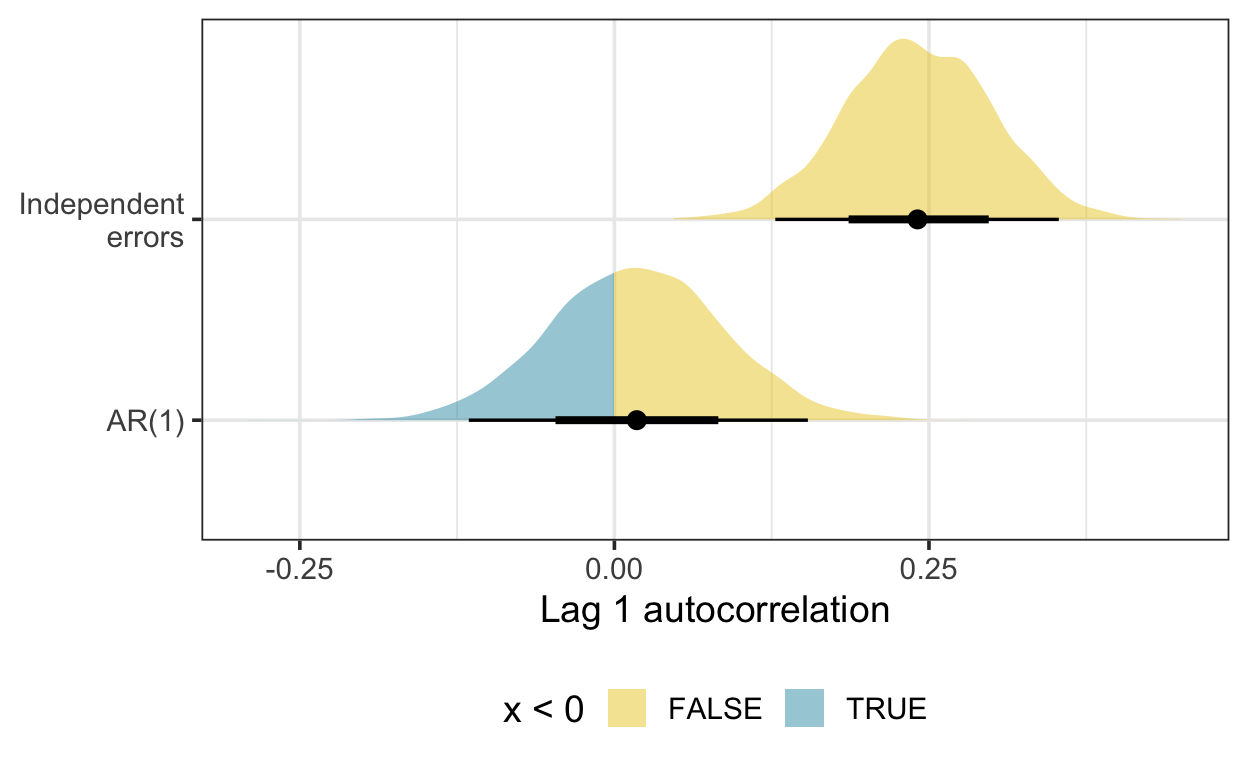
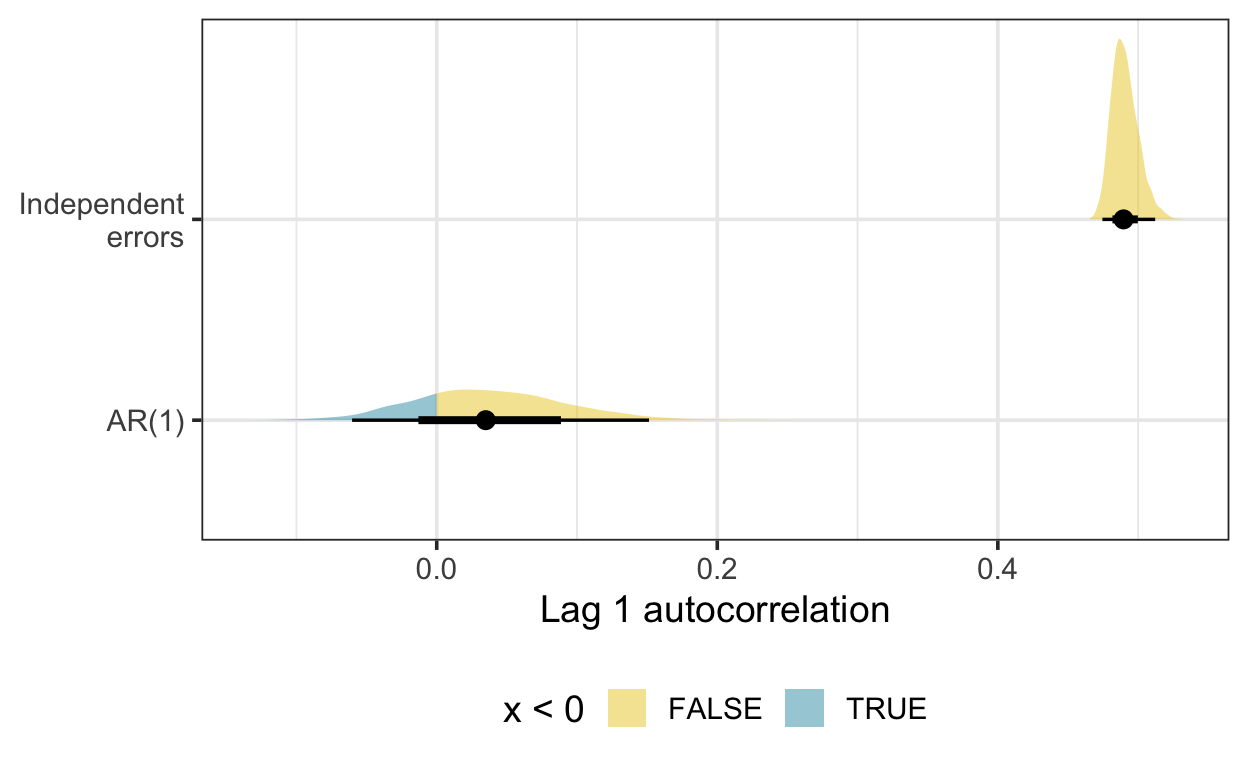
fix to simulated resids

diff --git a/_posts/2021-10-08-diagnostics-for-censored-autoregressive-models-fit-with-brms/diagnostics-for-censored-autoregressive-models-fit-with-brms.html b/_posts/2021-10-08-diagnostics-for-censored-autoregressive-models-fit-with-brms/diagnostics-for-censored-autoregressive-models-fit-with-brms.html
@@ -1591,7 +1591,7 @@ code span.wa { color: #5e5e5e; font-style: italic; } /* Warning */
   <span class='va'>model_resids</span> <span class='op'>&lt;-</span> <span class='fu'>tidybayes</span><span class='fu'>::</span><span class='fu'><a href='http://mjskay.github.io/tidybayes/reference/add_predicted_draws.html'>add_residual_draws</a></span><span class='op'>(</span>
     object <span class='op'>=</span> <span class='va'>model_update</span>,
     newdata <span class='op'>=</span> <span class='va'>data_aug</span>,
-    method <span class='op'>=</span> <span class='st'>"posterior_predict"</span>
+    method <span class='op'>=</span> <span class='st'>"posterior_epred"</span>
   <span class='op'>)</span>
   
   <span class='fu'><a href='https://rdrr.io/r/base/list.html'>list</a></span><span class='op'>(</span>
@@ -1632,16 +1632,13 @@ code span.wa { color: #5e5e5e; font-style: italic; } /* Warning */
 </div>
 <p>Again, I fitted the GAM—and the equivalent model without an AR(1) term—using <code>brms</code>:</p>
 <div class="layout-chunk" data-layout="l-body">
-
-</div>
-<div class="layout-chunk" data-layout="l-body">
 <div class="sourceCode">
 <pre class="sourceCode r"><code class="sourceCode r"><span class='va'>model_simdat</span> <span class='op'>&lt;-</span> <span class='fu'><a href='https://rdrr.io/pkg/brms/man/brm.html'>brm</a></span><span class='op'>(</span>
   <span class='fu'><a href='https://rdrr.io/pkg/brms/man/brmsformula.html'>bf</a></span><span class='op'>(</span><span class='va'>y_star</span> <span class='op'>|</span> <span class='fu'>cens</span><span class='op'>(</span><span class='va'>ci</span><span class='op'>)</span> <span class='op'>~</span> <span class='fu'><a href='https://rdrr.io/pkg/brms/man/s.html'>s</a></span><span class='op'>(</span><span class='va'>x</span><span class='op'>)</span> <span class='op'>+</span> <span class='fu'><a href='https://rdrr.io/pkg/brms/man/ar.html'>ar</a></span><span class='op'>(</span>time <span class='op'>=</span> <span class='va'>x</span>, p <span class='op'>=</span> <span class='fl'>1</span><span class='op'>)</span><span class='op'>)</span>,
   data <span class='op'>=</span> <span class='va'>simdat</span>,
   seed <span class='op'>=</span> <span class='fl'>124</span>,
   <span class='co'># save the model:</span>
-  file <span class='op'>=</span> <span class='fu'>here</span><span class='fu'>::</span><span class='fu'><a href='https://here.r-lib.org//reference/here.html'>here</a></span><span class='op'>(</span><span class='fu'><a href='https://rdrr.io/r/base/paste.html'>paste</a></span><span class='op'>(</span><span class='va'>file_path</span>, <span class='st'>"model_simdat"</span>, sep <span class='op'>=</span> <span class='st'>"/"</span><span class='op'>)</span><span class='op'>)</span>,
+  file <span class='op'>=</span> <span class='fu'>here</span><span class='fu'>::</span><span class='fu'><a href='https://here.r-lib.org//reference/here.html'>here</a></span><span class='op'>(</span><span class='st'>"model_simdat"</span><span class='op'>)</span>,
   cores <span class='op'>=</span> <span class='fl'>4</span>,
   control <span class='op'>=</span> <span class='fu'><a href='https://rdrr.io/r/base/list.html'>list</a></span><span class='op'>(</span>adapt_delta <span class='op'>=</span> <span class='fl'>.99</span><span class='op'>)</span>
 <span class='op'>)</span>

diff --git a/docs/posts/2021-10-08-diagnostics-for-censored-autoregressive-models-fit-with-brms/index.html b/docs/posts/2021-10-08-diagnostics-for-censored-autoregressive-models-fit-with-brms/index.html
@@ -2230,7 +2230,7 @@ document.addEventListener('DOMContentLoaded', function() {
   <span class='va'>model_resids</span> <span class='op'>&lt;-</span> <span class='fu'>tidybayes</span><span class='fu'>::</span><span class='fu'><a href='http://mjskay.github.io/tidybayes/reference/add_predicted_draws.html'>add_residual_draws</a></span><span class='op'>(</span>
     object <span class='op'>=</span> <span class='va'>model_update</span>,
     newdata <span class='op'>=</span> <span class='va'>data_aug</span>,
-    method <span class='op'>=</span> <span class='st'>"posterior_predict"</span>
+    method <span class='op'>=</span> <span class='st'>"posterior_epred"</span>
   <span class='op'>)</span>
   
   <span class='fu'><a href='https://rdrr.io/r/base/list.html'>list</a></span><span class='op'>(</span>
@@ -2271,16 +2271,13 @@ document.addEventListener('DOMContentLoaded', function() {
 </div>
 <p>Again, I fitted the GAM—and the equivalent model without an AR(1) term—using <code>brms</code>:</p>
 <div class="layout-chunk" data-layout="l-body">
-
-</div>
-<div class="layout-chunk" data-layout="l-body">
 <div class="sourceCode">
 <pre class="sourceCode r"><code class="sourceCode r"><span class='va'>model_simdat</span> <span class='op'>&lt;-</span> <span class='fu'><a href='https://rdrr.io/pkg/brms/man/brm.html'>brm</a></span><span class='op'>(</span>
   <span class='fu'><a href='https://rdrr.io/pkg/brms/man/brmsformula.html'>bf</a></span><span class='op'>(</span><span class='va'>y_star</span> <span class='op'>|</span> <span class='fu'>cens</span><span class='op'>(</span><span class='va'>ci</span><span class='op'>)</span> <span class='op'>~</span> <span class='fu'><a href='https://rdrr.io/pkg/brms/man/s.html'>s</a></span><span class='op'>(</span><span class='va'>x</span><span class='op'>)</span> <span class='op'>+</span> <span class='fu'><a href='https://rdrr.io/pkg/brms/man/ar.html'>ar</a></span><span class='op'>(</span>time <span class='op'>=</span> <span class='va'>x</span>, p <span class='op'>=</span> <span class='fl'>1</span><span class='op'>)</span><span class='op'>)</span>,
   data <span class='op'>=</span> <span class='va'>simdat</span>,
   seed <span class='op'>=</span> <span class='fl'>124</span>,
   <span class='co'># save the model:</span>
-  file <span class='op'>=</span> <span class='fu'>here</span><span class='fu'>::</span><span class='fu'><a href='https://here.r-lib.org//reference/here.html'>here</a></span><span class='op'>(</span><span class='fu'><a href='https://rdrr.io/r/base/paste.html'>paste</a></span><span class='op'>(</span><span class='va'>file_path</span>, <span class='st'>"model_simdat"</span>, sep <span class='op'>=</span> <span class='st'>"/"</span><span class='op'>)</span><span class='op'>)</span>,
+  file <span class='op'>=</span> <span class='fu'>here</span><span class='fu'>::</span><span class='fu'><a href='https://here.r-lib.org//reference/here.html'>here</a></span><span class='op'>(</span><span class='st'>"model_simdat"</span><span class='op'>)</span>,
   cores <span class='op'>=</span> <span class='fl'>4</span>,
   control <span class='op'>=</span> <span class='fu'><a href='https://rdrr.io/r/base/list.html'>list</a></span><span class='op'>(</span>adapt_delta <span class='op'>=</span> <span class='fl'>.99</span><span class='op'>)</span>
 <span class='op'>)</span>
